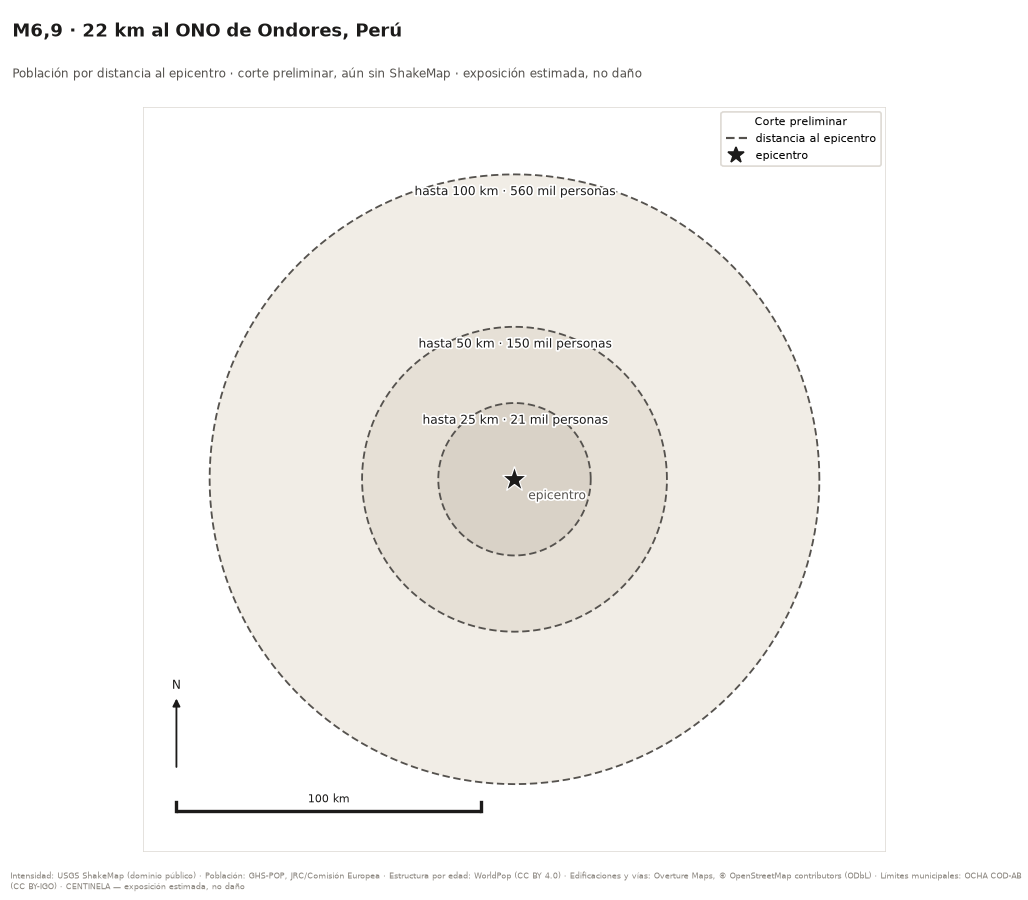
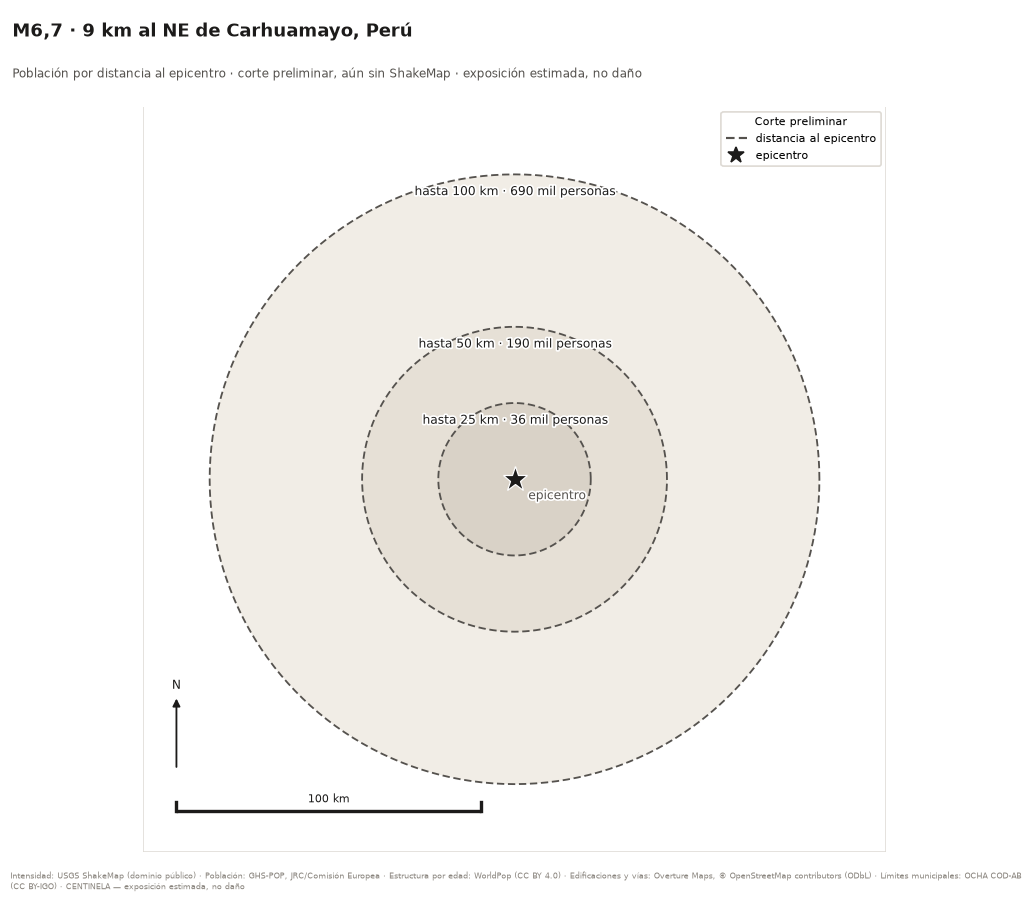
P3: reporte de pt26325050

diff --git a/reports/pt26325050/report.md b/reports/pt26325050/report.md
@@ -1,6 +1,6 @@
-# Exposición sísmica: M6,9 · 22 km al ONO de Ondores, Perú
+# Exposición sísmica: M6,7 · 9 km al NE de Carhuamayo, Perú
 
-**Evento USGS:** `pt26325050` · **Origen:** 2026-11-21T00:09:17Z UTC · **Profundidad:** 142,1 km
+**Evento USGS:** `pt26325050` · **Origen:** 2026-11-21T00:09:17Z UTC · **Profundidad:** 108,0 km
 
 > **Reporte preliminar sin ShakeMap.** El corte es por radios alrededor del epicentro, no por intensidad modelada. Se actualiza automáticamente en cuanto USGS publique el ShakeMap del evento.
 
@@ -8,9 +8,9 @@
 
 | Radio desde el epicentro | Población |
 |---|---:|
-| 25 km | 21 mil |
-| 50 km | 150 mil |
-| 100 km | 560 mil |
+| 25 km | 36 mil |
+| 50 km | 190 mil |
+| 100 km | 690 mil |
 
 Los radios **no son bandas de intensidad**. Aquí no hay modelo de sacudida, solo distancia: un sismo superficial y uno profundo de la misma magnitud tienen el mismo circulo y no se parecen en nada. La cifra sirve para dimensionar, no para priorizar.
 
@@ -27,7 +27,7 @@ Discrepancia entre GHS-POP y WorldPop: **no se calcula en un reporte preliminar*
 - ShakeMap consumido: **ninguno** (no publicado aún)
 - Ground Failure consumido: **ninguno** (no publicado aún)
 - Manifiesto de exposición: [`per-v0.5`](https://github.com/sforero77/CENTINELA/blob/main/data/manifests/PER.yaml)
-- Pipeline: `0.1.0` · Generado: 2026-11-21T00:21:03Z
+- Pipeline: `0.1.0` · Generado: 2026-11-21T00:26:00Z
 
 ## Advertencias
 
